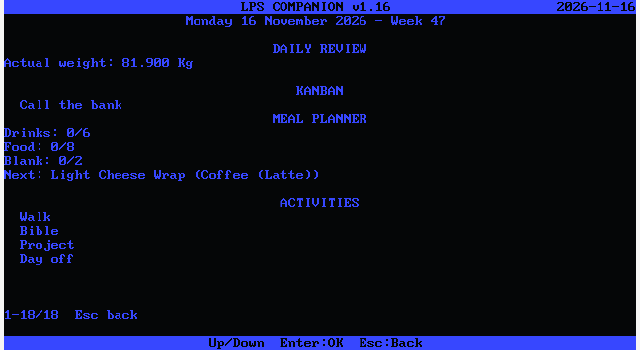
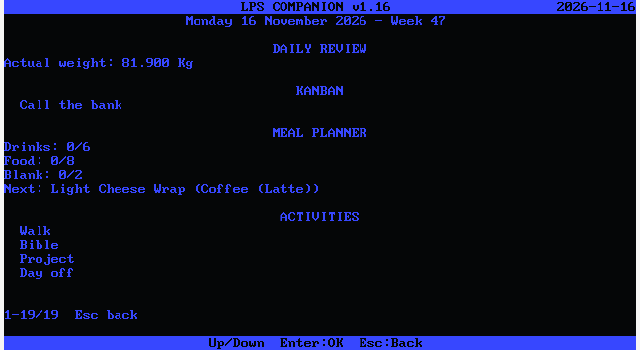
LPS116-CHG07c: blank line between Kanban and Meal Planner
Daily Review now leaves one blank line after the last focused card (or
No focused card / Aucune carte en focus) before MEAL PLANNER /
PLANIFICATEUR DE REPAS. Archived-day reviews have no KANBAN section and
are unchanged. The worst-case list is 68 lines; DOSBox timings are
unchanged.

Changed region(s): [[0.0, 0.3714, 0.5625, 0.6286], [0.4062, 0.3143, 0.5938, 0.4], [0.0312, 0.6, 0.125, 0.8]]

diff --git a/lps-companion/tests/test_storage.c b/lps-companion/tests/test_storage.c
@@ -60,6 +60,12 @@ static int any_xp(Platform *hw){
     int r; for(r=0;r<ROWS;r++) if(strstr(plat_host_row(hw,r),"XP")) return 1; return 0;
 }
 static int row_has(Platform *hw, int row, const char *text){ return strstr(plat_host_row(hw,row),text)!=NULL; }
+static int row_spaces(Platform *hw, int row){
+    const char *s=plat_host_row(hw,row); unsigned i;
+    if(!s) return 0;
+    for(i=0;s[i];i++) if(s[i]!=' ') return 0;
+    return i>0;
+}
 
 /* Independent ISO 8601 check: the week's Thursday decides the ISO year,
  * and its ordinal day gives the week number. Covers 2000-01-01..2099-12-31. */
@@ -2036,10 +2042,11 @@ static void check_full_date(const char *dir){
     assert(row_has(hw,3,"DAILY REVIEW") && !strstr(plat_host_row(hw,3),"2026"));
     assert(row_has(hw,4,"Actual weight: -- Kg"));
     assert(row_has(hw,6,"KANBAN") && row_has(hw,7,"No focused card"));
-    assert(row_has(hw,8,"MEAL PLANNER"));
-    assert(row_has(hw,9,"Drinks: 0/6") && row_has(hw,10,"Food: 0/8") && row_has(hw,11,"Blank: 0/2"));
-    assert(row_has(hw,12,"Next: Light Cheese Wrap (Coffee (Latte))"));
-    assert(row_has(hw,14,"ACTIVITIES") && row_has(hw,15,"No activity"));
+    assert(row_spaces(hw,8));
+    assert(row_has(hw,9,"MEAL PLANNER"));
+    assert(row_has(hw,10,"Drinks: 0/6") && row_has(hw,11,"Food: 0/8") && row_has(hw,12,"Blank: 0/2"));
+    assert(row_has(hw,13,"Next: Light Cheese Wrap (Coffee (Latte))"));
+    assert(row_has(hw,15,"ACTIVITIES") && row_has(hw,16,"No activity"));
     app_key(app,KEY_ESCAPE); assert(app_screen(app)==SCR_HOME);
     assert(row_has(hw,1,"Thursday 17 September 2026 (week 38)"));
     app_key(app,KEY_TAB); app_key(app,'1'); app_key(app,'2'); app_key(app,'4');
@@ -2050,10 +2057,11 @@ static void check_full_date(const char *dir){
     assert(any_row(hw,"REVUE JOURNALI") && !strstr(plat_host_row(hw,3),"2026"));
     assert(row_has(hw,4,"Poids effectif : -- Kg"));
     assert(row_has(hw,6,"KANBAN") && row_has(hw,7,"Aucune carte en focus"));
-    assert(row_has(hw,8,"PLANIFICATEUR DE REPAS"));
-    assert(row_has(hw,9,"Boissons : 0/6") && row_has(hw,10,"Nourriture : 0/8") && row_has(hw,11,"Blank : 0/2"));
-    assert(row_has(hw,12,"Prochain : Wrap fromage léger (Café (Latte))"));
-    assert(any_row(hw,"ACTIVIT") && row_has(hw,15,"Aucune activité"));
+    assert(row_spaces(hw,8));
+    assert(row_has(hw,9,"PLANIFICATEUR DE REPAS"));
+    assert(row_has(hw,10,"Boissons : 0/6") && row_has(hw,11,"Nourriture : 0/8") && row_has(hw,12,"Blank : 0/2"));
+    assert(row_has(hw,13,"Prochain : Wrap fromage léger (Café (Latte))"));
+    assert(any_row(hw,"ACTIVIT") && row_has(hw,16,"Aucune activité"));
     french_screen_ok(hw,"daily review full date");
 }
 
@@ -2105,11 +2113,12 @@ static void check_daily_review_layout(const char *dir){
     assert(row_has(hw,4,"Actual weight: 81.200 Kg"));
     assert(row_has(hw,6,"KANBAN"));
     assert(row_has(hw,7,"  Write docs") && row_has(hw,8,"  Fix bike"));
-    assert(row_has(hw,9,"MEAL PLANNER"));
-    assert(row_has(hw,10,"Drinks: 3/6") && row_has(hw,11,"Food: 4/8") && row_has(hw,12,"Blank: 0/2"));
-    assert(row_has(hw,13,"Next: Light Cheese Wrap (Tea)"));
-    assert(row_has(hw,15,"ACTIVITIES"));
-    assert(row_has(hw,16,"  Walk") && row_has(hw,17,"  Bible") && row_has(hw,18,"  Sport"));
+    assert(row_spaces(hw,9));
+    assert(row_has(hw,10,"MEAL PLANNER"));
+    assert(row_has(hw,11,"Drinks: 3/6") && row_has(hw,12,"Food: 4/8") && row_has(hw,13,"Blank: 0/2"));
+    assert(row_has(hw,14,"Next: Light Cheese Wrap (Tea)"));
+    assert(row_has(hw,16,"ACTIVITIES"));
+    assert(row_has(hw,17,"  Walk") && row_has(hw,18,"  Bible") && row_has(hw,19,"  Sport"));
 
     /* Exhausted drinks: play Tea, Mint Tea, Light Juice; Next keeps the wrap and (--). */
     app_key(app,KEY_ESCAPE); app_key(app,' '); /* opens on Tea, first unplayed */
@@ -2117,7 +2126,7 @@ static void check_daily_review_layout(const char *dir){
     app_key(app,KEY_RIGHT); app_key(app,KEY_ENTER);
     app_key(app,KEY_RIGHT); app_key(app,KEY_ENTER);
     app_key(app,KEY_ESCAPE); app_key(app,'5');
-    assert(row_has(hw,10,"Drinks: 6/6") && row_has(hw,13,"Next: Light Cheese Wrap (--)"));
+    assert(row_has(hw,11,"Drinks: 6/6") && row_has(hw,14,"Next: Light Cheese Wrap (--)"));
 
     /* Exhaust remaining food: two wraps, salad, then skip already-played cards to Soup. */
     app_key(app,KEY_ESCAPE); app_key(app,' '); /* opens on first wrap */
@@ -2130,7 +2139,7 @@ static void check_daily_review_layout(const char *dir){
     app_key(app,KEY_RIGHT);
     app_key(app,KEY_RIGHT); app_key(app,KEY_ENTER); /* Soup */
     app_key(app,KEY_ESCAPE); app_key(app,'5');
-    assert(row_has(hw,11,"Food: 8/8") && row_has(hw,13,"Next: -- (--)"));
+    assert(row_has(hw,12,"Food: 8/8") && row_has(hw,14,"Next: -- (--)"));
 
     /* French wording and planner names. */
     app_key(app,KEY_ESCAPE);
@@ -2139,10 +2148,11 @@ static void check_daily_review_layout(const char *dir){
     assert(row_has(hw,1,"Jeudi 17 septembre 2026 - Semaine 38"));
     assert(row_has(hw,4,"Poids effectif : 81.200 Kg"));
     assert(row_has(hw,7,"  Write docs") && row_has(hw,8,"  Fix bike"));
-    assert(row_has(hw,9,"PLANIFICATEUR DE REPAS"));
-    assert(row_has(hw,10,"Boissons : 6/6") && row_has(hw,11,"Nourriture : 8/8") && row_has(hw,12,"Blank : 0/2"));
-    assert(row_has(hw,13,"Prochain : -- (--)"));
-    assert(row_has(hw,16,"  Marche") && row_has(hw,17,"  Bible") && row_has(hw,18,"  Sport"));
+    assert(row_spaces(hw,9));
+    assert(row_has(hw,10,"PLANIFICATEUR DE REPAS"));
+    assert(row_has(hw,11,"Boissons : 6/6") && row_has(hw,12,"Nourriture : 8/8") && row_has(hw,13,"Blank : 0/2"));
+    assert(row_has(hw,14,"Prochain : -- (--)"));
+    assert(row_has(hw,17,"  Marche") && row_has(hw,18,"  Bible") && row_has(hw,19,"  Sport"));
     french_screen_ok(hw,"daily review layout FR");
 
     /* Archived day: no KANBAN; meal lines are -- (the save does not snapshot
@@ -2156,8 +2166,9 @@ static void check_daily_review_layout(const char *dir){
     assert(row_has(hw,1,"Jeudi 17 septembre 2026 - Semaine 38"));
     assert(any_row(hw,"JOUR ARCHIV"));
     assert(row_has(hw,5,"Poids effectif : 81.200 Kg"));
+    assert(row_spaces(hw,6));
     assert(!any_row(hw,"KANBAN") && !any_row(hw,"Write docs") && !any_row(hw,"Fix bike"));
-    assert(any_row(hw,"PLANIFICATEUR DE REPAS"));
+    assert(row_has(hw,7,"PLANIFICATEUR DE REPAS"));
     assert(any_row(hw,"Boissons : --") && any_row(hw,"Nourriture : --") && any_row(hw,"Blank : --") && any_row(hw,"Prochain : --"));
     assert(any_row(hw,"  Marche") && any_row(hw,"  Bible") && any_row(hw,"  Sport"));
 
@@ -2188,7 +2199,7 @@ static void host_refresh_labels(App *app){
     st->language=(uint8_t)(st->language==LANG_EN?LANG_FR:LANG_EN);
     app_render(app);
 }
-/* 24 focused cards + 30 ticked activities: 67 lines today (5 + 1+24 + 6 + 1+30). */
+/* 24 focused cards + 30 ticked activities: 68 lines today (5 + 1+24 + 1 + 6 + 1+30). */
 static void fill_max_today_review(App *app){
     State *st=(State*)app_state(app);
     unsigned i; uint32_t flags=0;
@@ -2225,16 +2236,16 @@ static void check_daily_review_scroll(const char *dir){
 
     /* Fits on one page: no arrows, footer has the range but not the scroll hint. */
     app_key(app,'5'); assert(app_screen(app)==SCR_DAILY_REVIEW);
-    assert(row_has(hw,22,"1-15/15") && row_has(hw,22,"Esc back") && !row_has(hw,22,"Up/Down: scroll"));
+    assert(row_has(hw,22,"1-16/16") && row_has(hw,22,"Esc back") && !row_has(hw,22,"Up/Down: scroll"));
     assert(!review_mark(hw,1,'\x18') && !review_mark(hw,21,'\x19'));
     app_key(app,KEY_DOWN); app_key(app,KEY_UP); app_key(app,KEY_END); app_key(app,KEY_PGDN);
-    assert(row_has(hw,1,"Thursday 17 September 2026 - Week 38") && row_has(hw,22,"1-15/15"));
+    assert(row_has(hw,1,"Thursday 17 September 2026 - Week 38") && row_has(hw,22,"1-16/16"));
 
-    /* 67-line today. */
+    /* 68-line today. */
     app_key(app,KEY_ESCAPE);
     fill_max_today_review(app);
     app_key(app,'5');
-    assert(row_has(hw,22,"Up/Down: scroll  1-21/67  Esc back"));
+    assert(row_has(hw,22,"Up/Down: scroll  1-21/68  Esc back"));
     assert(!review_mark(hw,1,'\x18') && review_mark(hw,21,'\x19'));
     assert(row_has(hw,1,"Thursday 17 September 2026 - Week 38"));
     /* Last visible line at the top is a focused card (items 0..20: header+kanban+cards). */
@@ -2242,30 +2253,30 @@ static void check_daily_review_scroll(const char *dir){
 
     /* Up at the top does not wrap. */
     app_key(app,KEY_UP); app_key(app,KEY_PGUP); app_key(app,KEY_HOME); app_key(app,KEY_LEFT);
-    assert(row_has(hw,22,"1-21/67") && !review_mark(hw,1,'\x18') && review_mark(hw,21,'\x19'));
+    assert(row_has(hw,22,"1-21/68") && !review_mark(hw,1,'\x18') && review_mark(hw,21,'\x19'));
 
     /* One line down, then a page (Right / PgDn, as in v1.15). */
     app_key(app,KEY_DOWN);
-    assert(row_has(hw,22,"2-22/67") && review_mark(hw,1,'\x18') && review_mark(hw,21,'\x19'));
+    assert(row_has(hw,22,"2-22/68") && review_mark(hw,1,'\x18') && review_mark(hw,21,'\x19'));
     app_key(app,KEY_RIGHT);
-    assert(row_has(hw,22,"23-43/67") && review_mark(hw,1,'\x18') && review_mark(hw,21,'\x19'));
+    assert(row_has(hw,22,"23-43/68") && review_mark(hw,1,'\x18') && review_mark(hw,21,'\x19'));
     app_key(app,KEY_PGDN);
-    assert(row_has(hw,22,"44-64/67") && review_mark(hw,1,'\x18') && review_mark(hw,21,'\x19'));
+    assert(row_has(hw,22,"44-64/68") && review_mark(hw,1,'\x18') && review_mark(hw,21,'\x19'));
 
     /* End / clamp at the bottom. */
     app_key(app,KEY_END);
-    assert(row_has(hw,22,"47-67/67") && review_mark(hw,1,'\x18') && !review_mark(hw,21,'\x19'));
+    assert(row_has(hw,22,"48-68/68") && review_mark(hw,1,'\x18') && !review_mark(hw,21,'\x19'));
     assert(any_row(hw,"  Extra 30") && !any_row(hw,"  Card 01"));
     app_key(app,KEY_DOWN); app_key(app,KEY_PGDN); app_key(app,KEY_RIGHT);
-    assert(row_has(hw,22,"47-67/67") && review_mark(hw,1,'\x18') && !review_mark(hw,21,'\x19'));
+    assert(row_has(hw,22,"48-68/68") && review_mark(hw,1,'\x18') && !review_mark(hw,21,'\x19'));
 
     /* Left / PgUp page back, Home returns to the top. */
     app_key(app,KEY_LEFT);
-    assert(row_has(hw,22,"26-46/67"));
+    assert(row_has(hw,22,"27-47/68"));
     app_key(app,KEY_PGUP);
-    assert(row_has(hw,22,"5-25/67"));
+    assert(row_has(hw,22,"6-26/68"));
     app_key(app,KEY_HOME);
-    assert(row_has(hw,22,"1-21/67") && !review_mark(hw,1,'\x18'));
+    assert(row_has(hw,22,"1-21/68") && !review_mark(hw,1,'\x18'));
 
     /* BIOS: dedicated Home/PgUp/End/PgDn; keypad 3 (NumLock on) stays a digit. */
     assert(app_bios_key(0,71)==KEY_HOME && app_bios_key(0xE0,73)==KEY_PGUP);
@@ -2277,16 +2288,16 @@ static void check_daily_review_scroll(const char *dir){
     /* TAB/SPACE return to the same offset and markers. */
     app_key(app,'5');
     app_key(app,KEY_PGDN);
-    assert(row_has(hw,22,"22-42/67") && review_mark(hw,1,'\x18') && review_mark(hw,21,'\x19'));
+    assert(row_has(hw,22,"22-42/68") && review_mark(hw,1,'\x18') && review_mark(hw,21,'\x19'));
     frame_of(hw,before);
     app_key(app,KEY_TAB); app_key(app,KEY_TAB);
-    assert(app_screen(app)==SCR_DAILY_REVIEW && frame_is(hw,before) && row_has(hw,22,"22-42/67"));
+    assert(app_screen(app)==SCR_DAILY_REVIEW && frame_is(hw,before) && row_has(hw,22,"22-42/68"));
     app_key(app,' '); app_key(app,' ');
     assert(app_screen(app)==SCR_DAILY_REVIEW && frame_is(hw,before) && review_mark(hw,1,'\x18') && review_mark(hw,21,'\x19'));
 
     /* Offset resets when the review is opened again. */
     app_key(app,KEY_ESCAPE); app_key(app,'5');
-    assert(row_has(hw,22,"1-21/67") && !review_mark(hw,1,'\x18') && review_mark(hw,21,'\x19'));
+    assert(row_has(hw,22,"1-21/68") && !review_mark(hw,1,'\x18') && review_mark(hw,21,'\x19'));
 
     /* LPS116-CHG07b: a one-line step does not clear the screen or rewrite
      * the title bar / the global footer. */
@@ -2296,28 +2307,28 @@ static void check_daily_review_scroll(const char *dir){
         memcpy(foot,plat_host_row(hw,24),COLUMNS+1);
         plat_host_reset_counts(hw);
         app_key(app,KEY_DOWN);
-        assert(row_has(hw,22,"2-22/67") && review_mark(hw,1,0x18) && review_mark(hw,21,0x19));
+        assert(row_has(hw,22,"2-22/68") && review_mark(hw,1,0x18) && review_mark(hw,21,0x19));
         assert(plat_host_clear_count(hw)==0);
         assert(plat_host_row_text_count(hw,0)==0);
         assert(plat_host_row_text_count(hw,24)==0);
         assert(!memcmp(title,plat_host_row(hw,0),COLUMNS+1));
         assert(!memcmp(foot,plat_host_row(hw,24),COLUMNS+1));
         app_key(app,KEY_UP);
-        assert(row_has(hw,22,"1-21/67") && !review_mark(hw,1,0x18) && review_mark(hw,21,0x19));
+        assert(row_has(hw,22,"1-21/68") && !review_mark(hw,1,0x18) && review_mark(hw,21,0x19));
         assert(!memcmp(title,plat_host_row(hw,0),COLUMNS+1));
         assert(!memcmp(foot,plat_host_row(hw,24),COLUMNS+1));
     }
 
     /* Content shrinks: offset is clamped (here the list fits again). */
     app_key(app,KEY_END);
-    assert(row_has(hw,22,"47-67/67"));
+    assert(row_has(hw,22,"48-68/68"));
     st=(State*)app_state(app);
     st->taskCount=0; memset(st->tasks,0,sizeof(st->tasks));
     st->today.flags=0;
     app_render(app);
-    assert(row_has(hw,22,"1-15/15") && !row_has(hw,22,"Up/Down: scroll"));
+    assert(row_has(hw,22,"1-16/16") && !row_has(hw,22,"Up/Down: scroll"));
     assert(!review_mark(hw,1,'\x18') && !review_mark(hw,21,'\x19'));
-    assert(row_has(hw,1,"Thursday 17 September 2026 - Week 38") && row_has(hw,15,"No activity"));
+    assert(row_has(hw,1,"Thursday 17 September 2026 - Week 38") && row_has(hw,16,"No activity"));
 
     /* Archived day: no KANBAN, still scrolls when the frozen names overflow,
      * meals stay -- (no per-day snapshot). 5+banner+6+1+30 = 43 lines. */
@@ -2339,7 +2350,7 @@ static void check_daily_review_scroll(const char *dir){
     app_key(app,KEY_ESCAPE); app_key(app,KEY_RIGHT);
     app_key(app,KEY_TAB); app_key(app,'1'); app_key(app,'2'); app_key(app,'4');
     app_key(app,'5');
-    /* Today after close is empty (15 lines); go back to the archive. */
+    /* Today after close is empty (16 lines); go back to the archive. */
     app_key(app,KEY_ESCAPE); app_key(app,KEY_LEFT);
     app_key(app,'3');
     assert(row_has(hw,22,"Haut/Bas : défiler  1-21/43") && row_has(hw,22,"Échap retour"));
@@ -2362,6 +2373,7 @@ static void check_archive_daily_review(const char *dir){
     assert(row_has(hw,1,"Thursday 17 September 2026 - Week 38"));
     assert(any_row(hw,"ARCHIVED DAY - READ ONLY"));
     assert(row_has(hw,5,"Actual weight: -- Kg"));
+    assert(row_spaces(hw,6) && row_has(hw,7,"MEAL PLANNER"));
     assert(!any_row(hw,"KANBAN") && any_row(hw,"Drinks: --") && any_row(hw,"Food: --") && any_row(hw,"Blank: --") && any_row(hw,"Next: --"));
     assert(row_has(hw,13,"ACTIVITIES") && row_has(hw,14,"No activity"));
     app_key(app,KEY_TAB); assert(app_screen(app)==SCR_DAILY_REVIEW && row_has(hw,23,"Archived day: read-only"));

diff --git a/lps-companion/src/app.c b/lps-companion/src/app.c
@@ -397,6 +397,7 @@ static void review_build(const App *a){
             review_add(RL_CARD,(uint8_t)i); focused++;
         }
         if(!focused) review_add(RL_NO_FOCUS,0);
+        review_add(RL_BLANK,0); /* LPS116-CHG07c: blank before MEAL PLANNER */
     }
     review_add(RL_MEALS,0);
     review_add(RL_COUNT,MEAL_DRINKS);

diff --git a/lps-companion/README.md b/lps-companion/README.md
@@ -15,7 +15,7 @@ The screen is the full **80×25** text mode (no 43/50-line modes). Home is two p
 
 Long texts (the rosary prayers) wrap at spaces, never inside a word; a word longer than the 80-column line is cut (LPS-DOS-115-CHG03c). Highlighted bars no longer blink on CGA, EGA or VGA: at start-up the program makes attribute bit 7 mean "bright background" (INT 10h AX=1003h on EGA/VGA, the 3D8h mode register on CGA), and on exit it restores the blink setting and the cursor shape, and leaves the last screen without bit 7. The five palettes keep their colours; their bars are now the bright shade of the text colour (orange stays brown).
 
-As in PicoCalc v1.12, XP and keepsakes no longer appear on any screen (LPS-DOS-115-CHG01). The line under the title bar shows the long date and ISO week of the viewed day, for example **Sunday 8 November 2026 (week 45)** / **Dimanche 8 Novembre 2026 (semaine 45)**; it stays blank for an undated day. On the Daily Review (LPS116-FEAT02-CHG03) that line uses the full date in the language in use, for example **Monday 16 November 2026 - Week 47** / **Lundi 16 novembre 2026 - Semaine 47** (weekday capitalised, French month in lowercase, no leading zero, week number only). The longest form, **Mercredi 30 septembre 2026 - Semaine 40**, is 39 characters and fits the CGA 40-column fold. Other screens keep the v1.15 wording. Under that date (LPS116-FEAT02-CHG04) the Daily Review lists the title **DAILY REVIEW**, the day's actual weight as **Actual weight: 81.200 Kg** (or **-- Kg** if none), then **KANBAN** and each focused card on its own line (**No focused card** if none), then **MEAL PLANNER** with **Drinks: 3/6**, **Food: 4/8**, **Blank: 1/2** (played/total in the row; the deck has 6, 8 and 2 cards) and **Next: Light Cheese Wrap (Tea)** — the first unplayed Food card in deck order, then the first unplayed Drink in parentheses, using the planner's names, or **--** / **(--)** when a row is exhausted — then **ACTIVITIES** and one ticked activity per line (**No activity** if none). Kanban is omitted on an archived day; the meal lines then show **--**, because the save does not keep the deck per day. When the list is longer than the 21 content rows (LPS116-FEAT02-CHG05), **Up/Down** move one line and do not wrap; **Left/Right** (as in v1.15), **PgUp** and **PgDn** move a page, and **Home** / **End** jump to the ends. A CP437 arrow at the right of the first or last content row marks that more text sits above (↑) or below (↓); there is no marker when everything fits. The footer reads **Up/Down: scroll** and the visible range only while scrolling is possible, and keeps **Esc back**. Opening the review starts at the top; TAB and SPACE overlays come back to the same place on today. An archived day (LPS116-FEAT02-CHG06) has a third menu entry, **3 Daily review**, which opens that day's review (full date, archive banner, that day's weight, no KANBAN, meal lines **--**, frozen activity names). Esc returns to the archived-day menu with the cursor on that entry. TAB and SPACE stay on the review and show the read-only notice, as on the other archived screens and on PicoCalc v1.15. XP is still banked in `SAVE_A`/`SAVE_B` so old and new saves stay compatible, and the ICS description keeps an empty `XP:` line, byte for byte like the PicoCalc.
+As in PicoCalc v1.12, XP and keepsakes no longer appear on any screen (LPS-DOS-115-CHG01). The line under the title bar shows the long date and ISO week of the viewed day, for example **Sunday 8 November 2026 (week 45)** / **Dimanche 8 Novembre 2026 (semaine 45)**; it stays blank for an undated day. On the Daily Review (LPS116-FEAT02-CHG03) that line uses the full date in the language in use, for example **Monday 16 November 2026 - Week 47** / **Lundi 16 novembre 2026 - Semaine 47** (weekday capitalised, French month in lowercase, no leading zero, week number only). The longest form, **Mercredi 30 septembre 2026 - Semaine 40**, is 39 characters and fits the CGA 40-column fold. Other screens keep the v1.15 wording. Under that date (LPS116-FEAT02-CHG04) the Daily Review lists the title **DAILY REVIEW**, the day's actual weight as **Actual weight: 81.200 Kg** (or **-- Kg** if none), then **KANBAN** and each focused card on its own line (**No focused card** if none), a blank line, then **MEAL PLANNER** with **Drinks: 3/6**, **Food: 4/8**, **Blank: 1/2** (played/total in the row; the deck has 6, 8 and 2 cards) and **Next: Light Cheese Wrap (Tea)** — the first unplayed Food card in deck order, then the first unplayed Drink in parentheses, using the planner's names, or **--** / **(--)** when a row is exhausted — then **ACTIVITIES** and one ticked activity per line (**No activity** if none). Kanban is omitted on an archived day; the meal lines then show **--**, because the save does not keep the deck per day. When the list is longer than the 21 content rows (LPS116-FEAT02-CHG05), **Up/Down** move one line and do not wrap; **Left/Right** (as in v1.15), **PgUp** and **PgDn** move a page, and **Home** / **End** jump to the ends. A CP437 arrow at the right of the first or last content row marks that more text sits above (↑) or below (↓); there is no marker when everything fits. The footer reads **Up/Down: scroll** and the visible range only while scrolling is possible, and keeps **Esc back**. Opening the review starts at the top; TAB and SPACE overlays come back to the same place on today. An archived day (LPS116-FEAT02-CHG06) has a third menu entry, **3 Daily review**, which opens that day's review (full date, archive banner, that day's weight, no KANBAN, meal lines **--**, frozen activity names). Esc returns to the archived-day menu with the cursor on that entry. TAB and SPACE stay on the review and show the read-only notice, as on the other archived screens and on PicoCalc v1.15. XP is still banked in `SAVE_A`/`SAVE_B` so old and new saves stay compatible, and the ICS description keeps an empty `XP:` line, byte for byte like the PicoCalc.
 
 As in PicoCalc v1.12, the notepad is gone (LPS-DOS-115-CHG02) and the Home menu is renumbered **0 Date, 1 Activities, 2 Weight tracker, 3 Kanban, 4 Christian Rosary, 5 Daily review, 6 Config, 7 Reminders, 8 Timer, 9 Close the day**; an archived day offered **1 Activities, 2 Weight tracker**. Since LPS-DOS-115-CHG10 Config has left the menu (TAB opens it) and the entries are **0–8**, and since LPS-DOS-115-CHG11 only the entries checked in Config > Activities are shown, as on the PicoCalc v1.15.
 
@@ -276,7 +276,7 @@ The title bar and the start-up banner read **LPS COMPANION v1.16**. File compati
 
 **Kanban focus** (LPS116-FEAT01): **F** toggles focus on the selected card. A focused card shows a `*` before its name. Moving a card to DONE clears focus; **F** on a DONE card does nothing. Focus is a way to highlight priority cards and lasts only as long as the cards. In the JSON save a focused card is written as `"focus":true` after the name; an unfocused card stays in the v1.15 form, so a save with no focus is byte-identical to v1.15. PicoCalc v1.15 skips the unknown key and opens the file; a resave on the PicoCalc drops `"focus"`. Focus is not stored in archived days, not in the old `.BIN` wire, and not in the ICS or CSV exports.
 
-**Daily Review** (LPS116-FEAT02): the first line is the full date with the ISO week in the language in use, for example **Monday 16 November 2026 - Week 47** / **Lundi 16 novembre 2026 - Semaine 47** (weekday capitalised, French month in lowercase, no leading zero). Then **DAILY REVIEW** / **REVUE JOURNALIÈRE** (no short `YYYY-MM-DD` on the title), the day's actual weight as **Actual weight: 81.200 Kg** / **Poids effectif : 81.200 Kg** (or **-- Kg** if none), **KANBAN** and each focused card on its own line (**No focused card** / **Aucune carte en focus** if none), **MEAL PLANNER** / **PLANIFICATEUR DE REPAS** with **Drinks: 3/6**, **Food: 4/8**, **Blank: 1/2** (played/total; the deck has 6, 8 and 2 cards; French puts a space before the colon) and **Next: Light Cheese Wrap (Tea)** / **Prochain : Wrap fromage léger (Thé)** — the first unplayed Food card in deck order, then the first unplayed Drink in parentheses, using the planner's names, or **--** / **(--)** when a row is exhausted — then **ACTIVITIES** / **ACTIVITÉS** and one ticked activity per line (**No activity** / **Aucune activité** if none).
+**Daily Review** (LPS116-FEAT02): the first line is the full date with the ISO week in the language in use, for example **Monday 16 November 2026 - Week 47** / **Lundi 16 novembre 2026 - Semaine 47** (weekday capitalised, French month in lowercase, no leading zero). Then **DAILY REVIEW** / **REVUE JOURNALIÈRE** (no short `YYYY-MM-DD` on the title), the day's actual weight as **Actual weight: 81.200 Kg** / **Poids effectif : 81.200 Kg** (or **-- Kg** if none), **KANBAN** and each focused card on its own line (**No focused card** / **Aucune carte en focus** if none), a blank line, then **MEAL PLANNER** / **PLANIFICATEUR DE REPAS** with **Drinks: 3/6**, **Food: 4/8**, **Blank: 1/2** (played/total; the deck has 6, 8 and 2 cards; French puts a space before the colon) and **Next: Light Cheese Wrap (Tea)** / **Prochain : Wrap fromage léger (Thé)** — the first unplayed Food card in deck order, then the first unplayed Drink in parentheses, using the planner's names, or **--** / **(--)** when a row is exhausted — then **ACTIVITIES** / **ACTIVITÉS** and one ticked activity per line (**No activity** / **Aucune activité** if none).
 
 When the list is longer than the 21 content rows, **Up/Down** move one line and do not wrap; **Left/Right** (as in v1.15), **PgUp** and **PgDn** move a page; **Home** / **End** jump to the ends. A CP437 arrow at the right of the first or last content row marks that more text sits above (↑) or below (↓). The footer reads **Up/Down: scroll** / **Haut/Bas : défiler** and the visible range only while scrolling is possible. Opening the review starts at the top; on today, TAB and SPACE overlays come back to the same place.
 
@@ -690,7 +690,7 @@ L'ecran utilise tout le mode texte **80×25**. L'accueil a deux volets : le menu
 
 Les textes longs (prières du rosaire) passent à la ligne entre les mots, jamais au milieu d'un mot ; un mot plus long que la ligne de 80 colonnes est coupé (LPS-DOS-115-CHG03c). Les barres en surbrillance ne clignotent plus sur CGA, EGA ou VGA : au démarrage, le bit 7 de l'attribut devient « fond clair » (INT 10h AX=1003h sur EGA/VGA, registre 3D8h sur CGA) ; en quittant, le programme rétablit le clignotement et la forme du curseur, et laisse le dernier écran sans bit 7. Les cinq palettes gardent leurs couleurs ; leurs barres prennent la teinte claire de la couleur du texte (l'orange reste brun).
 
-Comme sur la PicoCalc v1.12, l'XP et les souvenirs n'apparaissent plus sur aucun ecran (LPS-DOS-115-CHG01). La ligne sous la barre de titre affiche la date longue et la semaine ISO du jour affiche, par exemple **Dimanche 8 Novembre 2026 (semaine 45)** ; elle reste vide pour un jour sans date. Sur la revue journalière (LPS116-FEAT02-CHG03), cette ligne utilise la date complète dans la langue en cours, par exemple **Lundi 16 novembre 2026 - Semaine 47** / **Monday 16 November 2026 - Week 47** (jour capitalisé, mois français en minuscules, pas de zéro initial, numéro de semaine seulement). La forme la plus longue, **Mercredi 30 septembre 2026 - Semaine 40**, fait 39 caractères et tient dans le pliage CGA 40 colonnes. Les autres écrans gardent la formulation v1.15. Sous cette date (LPS116-FEAT02-CHG04), la revue journalière affiche le titre **REVUE JOURNALIÈRE**, le poids effectif du jour **Poids effectif : 81.200 Kg** (ou **-- Kg** s'il manque), puis **KANBAN** et chaque carte en focus sur une ligne (**Aucune carte en focus** s'il n'y en a pas), puis **PLANIFICATEUR DE REPAS** avec **Boissons : 3/6**, **Nourriture : 4/8**, **Blank : 1/2** (jouées/total dans la rangée ; le paquet a 6, 8 et 2 cartes) et **Prochain : Wrap fromage léger (Thé)** — la première carte Nourriture non jouée dans l'ordre du paquet, puis la première Boisson entre parenthèses, avec les noms du planificateur, ou **--** / **(--)** si une rangée est épuisée — puis **ACTIVITÉS** et une activité cochée par ligne (**Aucune activité** s'il n'y en a pas). Le Kanban est omis sur un jour archivé ; les lignes de repas y affichent **--**, car la sauvegarde ne garde pas le paquet par jour. Quand la liste dépasse les 21 lignes utiles (LPS116-FEAT02-CHG05), **Haut/Bas** avancent d'une ligne sans boucler ; **Gauche/Droite** (comme en v1.15), **PgUp** et **PgDn** sautent une page, et **Début** / **Fin** vont aux extrémités. Une flèche CP437 à droite de la première ou de la dernière ligne utile indique qu'il reste du texte au-dessus (↑) ou en dessous (↓) ; pas de repère quand tout tient. Le pied affiche **Haut/Bas : défiler** et la plage visible seulement si le défilement est possible, et garde **Échap retour**. Ouvrir la revue revient en haut ; les calques TAB et ESPACE reviennent au même endroit pour le jour en cours. Un jour archivé (LPS116-FEAT02-CHG06) a une troisième entrée de menu, **3 Revue journalière**, qui ouvre la revue de ce jour (date complète, bandeau d'archive, poids du jour, pas de KANBAN, lignes de repas **--**, noms d'activités figés). Échap ramène au menu du jour archivé, curseur sur cette entrée. TAB et ESPACE restent sur la revue et affichent l'avis de lecture seule, comme sur les autres écrans d'archive et sur la PicoCalc v1.15. L'XP reste enregistree dans `SAVE_A`/`SAVE_B` pour la compatibilite, et la description ICS garde une ligne `XP:` vide, comme sur la PicoCalc.
+Comme sur la PicoCalc v1.12, l'XP et les souvenirs n'apparaissent plus sur aucun ecran (LPS-DOS-115-CHG01). La ligne sous la barre de titre affiche la date longue et la semaine ISO du jour affiche, par exemple **Dimanche 8 Novembre 2026 (semaine 45)** ; elle reste vide pour un jour sans date. Sur la revue journalière (LPS116-FEAT02-CHG03), cette ligne utilise la date complète dans la langue en cours, par exemple **Lundi 16 novembre 2026 - Semaine 47** / **Monday 16 November 2026 - Week 47** (jour capitalisé, mois français en minuscules, pas de zéro initial, numéro de semaine seulement). La forme la plus longue, **Mercredi 30 septembre 2026 - Semaine 40**, fait 39 caractères et tient dans le pliage CGA 40 colonnes. Les autres écrans gardent la formulation v1.15. Sous cette date (LPS116-FEAT02-CHG04), la revue journalière affiche le titre **REVUE JOURNALIÈRE**, le poids effectif du jour **Poids effectif : 81.200 Kg** (ou **-- Kg** s'il manque), puis **KANBAN** et chaque carte en focus sur une ligne (**Aucune carte en focus** s'il n'y en a pas), une ligne vide, puis **PLANIFICATEUR DE REPAS** avec **Boissons : 3/6**, **Nourriture : 4/8**, **Blank : 1/2** (jouées/total dans la rangée ; le paquet a 6, 8 et 2 cartes) et **Prochain : Wrap fromage léger (Thé)** — la première carte Nourriture non jouée dans l'ordre du paquet, puis la première Boisson entre parenthèses, avec les noms du planificateur, ou **--** / **(--)** si une rangée est épuisée — puis **ACTIVITÉS** et une activité cochée par ligne (**Aucune activité** s'il n'y en a pas). Le Kanban est omis sur un jour archivé ; les lignes de repas y affichent **--**, car la sauvegarde ne garde pas le paquet par jour. Quand la liste dépasse les 21 lignes utiles (LPS116-FEAT02-CHG05), **Haut/Bas** avancent d'une ligne sans boucler ; **Gauche/Droite** (comme en v1.15), **PgUp** et **PgDn** sautent une page, et **Début** / **Fin** vont aux extrémités. Une flèche CP437 à droite de la première ou de la dernière ligne utile indique qu'il reste du texte au-dessus (↑) ou en dessous (↓) ; pas de repère quand tout tient. Le pied affiche **Haut/Bas : défiler** et la plage visible seulement si le défilement est possible, et garde **Échap retour**. Ouvrir la revue revient en haut ; les calques TAB et ESPACE reviennent au même endroit pour le jour en cours. Un jour archivé (LPS116-FEAT02-CHG06) a une troisième entrée de menu, **3 Revue journalière**, qui ouvre la revue de ce jour (date complète, bandeau d'archive, poids du jour, pas de KANBAN, lignes de repas **--**, noms d'activités figés). Échap ramène au menu du jour archivé, curseur sur cette entrée. TAB et ESPACE restent sur la revue et affichent l'avis de lecture seule, comme sur les autres écrans d'archive et sur la PicoCalc v1.15. L'XP reste enregistree dans `SAVE_A`/`SAVE_B` pour la compatibilite, et la description ICS garde une ligne `XP:` vide, comme sur la PicoCalc.
 
 Comme sur la PicoCalc v1.12, le bloc notes disparait (LPS-DOS-115-CHG02) et le menu d'accueil est renumerote : **0 Date, 1 Activites, 2 Suivi du poids, 3 Kanban, 4 Rosaire chretien, 5 Revue journaliere, 6 Config, 7 Rappels, 8 Minuteur, 9 Terminer le jour**. Un jour archive proposait **1 Activites, 2 Suivi du poids**. Depuis LPS-DOS-115-CHG10, Config a quitte le menu (TAB l'ouvre) et les entrees vont de **0 a 8**, et depuis LPS-DOS-115-CHG11 seules les entrees cochees dans Config > Activites sont affichees, comme sur la PicoCalc v1.15.
 
@@ -930,7 +930,7 @@ La barre de titre et la bannière de démarrage affichent **LPS COMPANION v1.16*
 
 **Focus du Kanban** (LPS116-FEAT01) : **F** inverse le focus de la carte sélectionnée. Une carte en focus affiche un `*` devant son nom. La passer en FINI retire le focus ; **F** sur une carte FINI ne fait rien. Le focus sert à mettre en avant des cartes prioritaires et ne dure pas plus longtemps que les cartes. Dans la sauvegarde JSON, une carte en focus s'écrit `"focus":true` après le nom ; une carte sans focus garde la forme v1.15, donc une sauvegarde sans focus est identique à l'octet près à la v1.15. La PicoCalc v1.15 ignore la clé inconnue et ouvre le fichier ; une réécriture sur la PicoCalc retire `"focus"`. Le focus n'est pas stocké dans les jours archivés, ni dans l'ancien fil `.BIN`, ni dans les exports ICS ou CSV.
 
-**Revue journalière** (LPS116-FEAT02) : la première ligne est la date complète avec la semaine ISO dans la langue en cours, par exemple **Lundi 16 novembre 2026 - Semaine 47** / **Monday 16 November 2026 - Week 47** (jour capitalisé, mois français en minuscules, pas de zéro initial). Puis **REVUE JOURNALIÈRE** / **DAILY REVIEW** (sans le court `YYYY-MM-DD` sur le titre), le poids effectif du jour **Poids effectif : 81.200 Kg** / **Actual weight: 81.200 Kg** (ou **-- Kg** s'il manque), **KANBAN** et chaque carte en focus sur une ligne (**Aucune carte en focus** / **No focused card** s'il n'y en a pas), **PLANIFICATEUR DE REPAS** / **MEAL PLANNER** avec **Boissons : 3/6**, **Nourriture : 4/8**, **Blank : 1/2** (jouées/total ; le paquet a 6, 8 et 2 cartes ; l'anglais n'a pas d'espace avant le deux-points) et **Prochain : Wrap fromage léger (Thé)** / **Next: Light Cheese Wrap (Tea)** — la première carte Nourriture non jouée dans l'ordre du paquet, puis la première Boisson entre parenthèses, avec les noms du planificateur, ou **--** / **(--)** si une rangée est épuisée — puis **ACTIVITÉS** / **ACTIVITIES** et une activité cochée par ligne (**Aucune activité** / **No activity** s'il n'y en a pas).
+**Revue journalière** (LPS116-FEAT02) : la première ligne est la date complète avec la semaine ISO dans la langue en cours, par exemple **Lundi 16 novembre 2026 - Semaine 47** / **Monday 16 November 2026 - Week 47** (jour capitalisé, mois français en minuscules, pas de zéro initial). Puis **REVUE JOURNALIÈRE** / **DAILY REVIEW** (sans le court `YYYY-MM-DD` sur le titre), le poids effectif du jour **Poids effectif : 81.200 Kg** / **Actual weight: 81.200 Kg** (ou **-- Kg** s'il manque), **KANBAN** et chaque carte en focus sur une ligne (**Aucune carte en focus** / **No focused card** s'il n'y en a pas), une ligne vide, puis **PLANIFICATEUR DE REPAS** / **MEAL PLANNER** avec **Boissons : 3/6**, **Nourriture : 4/8**, **Blank : 1/2** (jouées/total ; le paquet a 6, 8 et 2 cartes ; l'anglais n'a pas d'espace avant le deux-points) et **Prochain : Wrap fromage léger (Thé)** / **Next: Light Cheese Wrap (Tea)** — la première carte Nourriture non jouée dans l'ordre du paquet, puis la première Boisson entre parenthèses, avec les noms du planificateur, ou **--** / **(--)** si une rangée est épuisée — puis **ACTIVITÉS** / **ACTIVITIES** et une activité cochée par ligne (**Aucune activité** / **No activity** s'il n'y en a pas).
 
 Quand la liste dépasse les 21 lignes utiles, **Haut/Bas** avancent d'une ligne sans boucler ; **Gauche/Droite** (comme en v1.15), **PgUp** et **PgDn** sautent une page ; **Début** / **Fin** vont aux extrémités. Une flèche CP437 à droite de la première ou de la dernière ligne utile indique qu'il reste du texte au-dessus (↑) ou en dessous (↓). Le pied affiche **Haut/Bas : défiler** / **Up/Down: scroll** et la plage visible seulement si le défilement est possible. Ouvrir la revue revient en haut ; pour le jour en cours, les calques TAB et ESPACE reviennent au même endroit.
 

diff --git a/lps-companion/BOOK8088-TEST.md b/lps-companion/BOOK8088-TEST.md
@@ -1,7 +1,7 @@
 # Book 8088 – liste de tests sur le vrai materiel (LPS COMPANION v1.16)
 
 Tests a faire sur le Book 8088 (8088, ecran CGA) avec la version finale
-LPS116-CHG07b. Les temps de reference viennent de DOSBox Staging a la
+LPS116-CHG07c. Les temps de reference viennent de DOSBox Staging a la
 vitesse d'un 8088 (`cycles=fixed 300`, section 7) ; noter le
 temps reel a cote. DOSBox Staging 0.83.1 n'accepte pas `cputype=8086`
 ni `cputype=8088` et retombe sur `auto` : la vitesse est bien celle des
@@ -67,8 +67,8 @@ aller-retour PicoCalc, copier aussi `SAVE_A.JSN` / `SAVE_B.JSN` de la carte SD.
 
 | # | Test | Attendu | Ref. DOSBox | Resultat |
 |---|---|---|---|---|
-| R1 | 5 depuis l'accueil (jour en cours) | date complete et semaine ISO (`Monday 16 November 2026 - Week 47` / `Lundi 16 novembre 2026 - Semaine 47`) ; titre **DAILY REVIEW** / **REVUE JOURNALIÈRE** sans `YYYY-MM-DD` ; poids `Actual weight: … Kg` / `Poids effectif : … Kg` ou `-- Kg` ; section KANBAN avec les cartes en focus (ou `No focused card` / `Aucune carte en focus`) ; compteurs Boissons/Nourriture/Blank 6/8/2 et `Next:` / `Prochain :` (premiere Nourriture puis Boisson, ou `--`) ; activites cochees | ouverture, cas 67 lignes : 0,30 s (EGA), 0,29 s (CGA), 0,28 s (Hercules) | |
-| R2 | Liste plus longue que 21 lignes : Haut/Bas, PgUp/PgDn, Debut/Fin, Gauche/Droite | une ligne sans boucler ; page de 21 ; Debut en haut, Fin en bas ; fleches CP437 ↑/↓ a droite ; pied `Up/Down: scroll` / `Haut/Bas : défiler` et la plage (`1-21/67`) seulement s'il faut defiler | un pas Bas : 0,11 s (EGA, CGA, Hercules) | |
+| R1 | 5 depuis l'accueil (jour en cours) | date complete et semaine ISO (`Monday 16 November 2026 - Week 47` / `Lundi 16 novembre 2026 - Semaine 47`) ; titre **DAILY REVIEW** / **REVUE JOURNALIÈRE** sans `YYYY-MM-DD` ; poids `Actual weight: … Kg` / `Poids effectif : … Kg` ou `-- Kg` ; section KANBAN avec les cartes en focus (ou `No focused card` / `Aucune carte en focus`), une ligne vide, puis le planificateur ; compteurs Boissons/Nourriture/Blank 6/8/2 et `Next:` / `Prochain :` (premiere Nourriture puis Boisson, ou `--`) ; activites cochees | ouverture, cas 68 lignes : 0,30 s (EGA), 0,29 s (CGA), 0,28 s (Hercules) | |
+| R2 | Liste plus longue que 21 lignes : Haut/Bas, PgUp/PgDn, Debut/Fin, Gauche/Droite | une ligne sans boucler ; page de 21 ; Debut en haut, Fin en bas ; fleches CP437 ↑/↓ a droite ; pied `Up/Down: scroll` / `Haut/Bas : défiler` et la plage (`1-21/68`) seulement s'il faut defiler | un pas Bas : 0,11 s (EGA, CGA, Hercules) | |
 | R3 | Jour archive : entree **3 Revue journaliere** / **3 Daily review**, puis cette revue | le menu a 3 entrees (la PicoCalc v1.15 n'en a que 1–2) ; date du jour archive, bandeau, poids du jour, pas de KANBAN, repas en `--` (y compris Prochain), activites figees ; Echap revient au menu, curseur sur 3 ; Tab/Espace restent en lecture seule | – | |
 
 ## 7. Fichiers et aller-retour PicoCalc
@@ -88,12 +88,13 @@ dur), et tout caractere mal affiche (les capitales À È Ê Ô Â sont sans acce
 normal). Sur un jour archive, la revue n'a pas de KANBAN et les lignes de repas
 sont toujours `--` : une sauvegarde des repas par jour est reportee.
 
-## 9. Temps de reference DOSBox (LPS116-CHG07b)
+## 9. Temps de reference DOSBox (LPS116-CHG07c)
 
 DOSBox Staging 0.83.1, `cputype=auto`, `cycles=fixed 300`, sauvegarde courte ;
 l'horloge avance par pas de 55 ms. Les temps du planificateur (CHG16) n'ont pas
-ete remesures. Ceux de la revue journaliere (67 lignes, pire cas) l'ont ete
-dans LPS116-CHG07b : duree jusqu'a la derniere modification de l'image
+ete remesures. Ceux de la revue journaliere (68 lignes, pire cas ; LPS116-CHG07c ajoute une ligne vide
+entre le KANBAN et le PLANIFICATEUR DE REPAS) l'ont ete
+dans LPS116-CHG07b et revus dans LPS116-CHG07c : duree jusqu'a la derniere modification de l'image
 (`cycles=fixed 300`) ; une confirmation de 0,12 s n'est pas comptee.
 
 | Action | EGA | CGA | Hercules (texte) |
@@ -108,7 +109,7 @@ dans LPS116-CHG07b : duree jusqu'a la derniere modification de l'image
 | Aller sur une carte jouee | 0,22 s | 0,33 s | 0,11 s |
 | TAB → Config / → planificateur | 0,17 / 0,33 s | 0,17 / 0,39 s | 0,11 / 0,11 s |
 | Echap, planificateur → accueil (sauvegarde + CSV) | 0,72 s | 0,72 s | 0,66 s |
-| Ouvrir la revue journaliere (67 lignes) | 0,30 s | 0,29 s | 0,28 s |
+| Ouvrir la revue journaliere (68 lignes) | 0,30 s | 0,29 s | 0,28 s |
 | Un pas de defilement (Bas) | 0,11 s | 0,11 s | 0,11 s |
 
 ---
@@ -132,7 +133,7 @@ above; DOSBox disk reads are near-instant, so real first reads take longer):
 4. EGA/VGA, if available: EGA pictures, played card in grey. Mono: text-mode planner.
 5. `KEYB FR`: top-row digits unshifted, é è ç à typed in Kanban.
 6. Kanban focus: **F** toggles a `*` before the name; Esc, Q, reload keeps it; moving the card to DONE clears it; **F** on DONE does nothing.
-7. Daily Review: full date and ISO week, counters 6/8/2, Next/Prochain, focused cards; Up/Down (one line, no wrap), PgUp/PgDn, Home/End, scroll markers and the range in the footer. Opening the 67-line worst case takes 0.30 s (EGA), 0.29 s (CGA), 0.28 s (Hercules); each Down step 0.11 s on all three.
+7. Daily Review: full date and ISO week, counters 6/8/2, Next/Prochain, focused cards, a blank line between the last KANBAN line (or No focused card) and MEAL PLANNER (archived days have no KANBAN and no extra blank); Up/Down (one line, no wrap), PgUp/PgDn, Home/End, scroll markers and the range in the footer. Opening the 68-line worst case takes 0.30 s (EGA), 0.29 s (CGA), 0.28 s (Hercules); each Down step 0.11 s on all three.
 8. Archived day: menu entry **3 Daily review** (PicoCalc v1.15 still has only 1–2); no KANBAN, meal lines `--`, Esc returns with the cursor on that entry.
 9. Exports: `EXPORT\YYYYMMDD.ICS`, `WEIGHTS\YYYY.csv`, `EXPORT\MPYYMMDD.CSV`.
 10. PicoCalc round-trip without focus: SD save -> DOS -> edit -> back to SD, byte-identical. A DOS save with `"focus":true` opens on PicoCalc v1.15; a PicoCalc resave drops the key.
